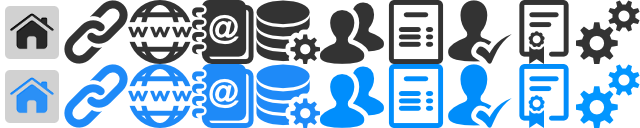
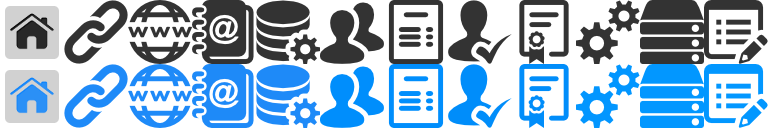
Добавил иконки в раздел Базы и новый контроллер, для контактов

diff --git a/web/css/smoothness/images.css b/web/css/smoothness/images.css
@@ -164,3 +164,18 @@ a.DTTT_button_search.DTTT_disabled span {
 #dns:hover {
 	background-position: -576px -64px;
 }
+#badm {
+	background-position: -640px 0px;
+}
+#badm.pagetab-selected,
+#badm:hover {
+	background-position: -640px -64px;
+}
+#bcont {
+	background-position: -704px 0px;
+}
+#bcont.pagetab-selected,
+#bcont:hover {
+	background-position: -704px -64px;
+}
+

diff --git a/web/css/style.css b/web/css/style.css
@@ -202,6 +202,7 @@ form#usersform {
 .vertical-50
 {
 	width: 49%;
+	float:left;
 /*
 	display: inline-block;
 */
@@ -236,7 +237,14 @@ form#usersform {
 	float: right;
 }
 
+.vertical-50 .right-side {
+	width: 100%;
+	margin-right: -49%;
+	float: right;
+}
 /**** картинки ***/
+#badm,
+#bcont,
 #dns,
 #users,
 #home-page,

diff --git a/classes/App/Controller/Bcont.php b/classes/App/Controller/Bcont.php
@@ -1,0 +1,52 @@
+<?php
+
+namespace App\Controller;
+
+class Bcont extends \App\ItBase {
+
+
+ 	public function action_edit() {
+
+		if( $this->permissions != $this::WRITE_LEVEL )
+			return $this->noperm();
+
+		if( ! $params = $this->request->post() )
+			return;
+
+		try {
+			$tab  = isset($params['tab']) ? $params['tab'] : '';
+
+			$params['pid']  = (isset($params['in_root']) && $params['in_root']) ? '0' : $params['pid'];
+			$params['page'] = $this->request->param('controller');
+			unset($params['tab'], $params['in_root']);
+
+			$is_update = $params['id'] ? true : false;
+
+			// сохраняем модель
+			// Если в запрос поместить true -  предполагается UPDATE
+			$row = $this->pixie->orm->get('names')
+									->values($params, $is_update)
+									->save();
+
+			$id = $params['id'];
+			unset( $params['id'] );
+
+			// tab = '' - идет запрос на изменение принадлежности
+			if( $tab ) {
+				$returnData  = array('title' => $params['name'],
+									 'isFolder' => true,
+									 'key'   => ($id ? $id : $row->id));
+
+				$this->response->body = json_encode($returnData);
+			}
+		}
+		catch (\Exception $e) {
+			$this->response->body = $e->getMessage();
+			return;
+		}
+
+
+	}
+ }
+
+?>

diff --git a/assets/views/badm.php b/assets/views/badm.php
@@ -16,7 +16,7 @@
 				</div>
 			</div>
 		</div>
-		<div class='vertical-80 right-side'>
+		<div class='vertical-80'>
 			<div class='gorizont-50'>
 				<table cellpadding="0" cellspacing="0" border="0" class="display" id="tab-rec">
 
